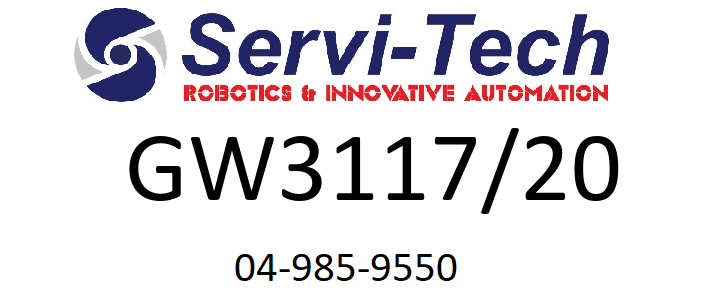
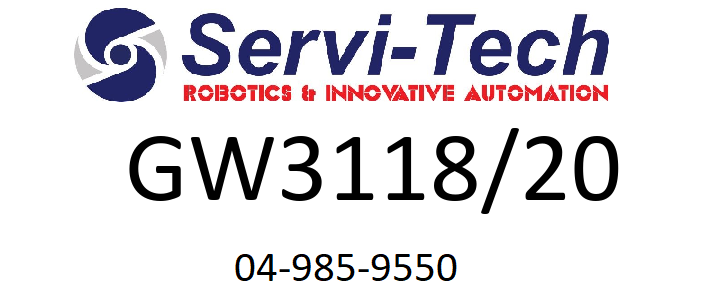
Now printing string

Changed region(s): [[0.5806, 0.45, 0.6722, 0.69]]

diff --git a/print_label_via_brother.py b/print_label_via_brother.py
@@ -20,9 +20,9 @@ app = Flask(__name__)
 #  http://127.0.0.1:5000/print?number=2&quantity=2 -this is how it works
 @app.route("/print",methods=['get'])
 def do_print():
-    number = request.args.get('number', None)  # use default value replace 'None'
+    print_str = request.args.get('string', None)  # use default value replace 'None'
     quantity = request.args.get('quantity', None)
-    create_label(number)
+    create_label(print_str)
 
     if print_label('print.png',quantity)==0:
         return jsonify( {'status': 'success'} ),200
@@ -33,12 +33,12 @@ def do_print():
 
 
 #add serial number to template to create new label
-def create_label(serial_num):
+def create_label(print):
     in_file = 'template.png'
     out_file = 'print.png'
     year_last_2_digits = time.strftime("%y", time.localtime())
-    num = str(serial_num)
-    text = 'GW' + num + '/' + year_last_2_digits
+    print_string = print
+    text =   print_string+ '/' + year_last_2_digits
     img = Image.open(in_file)
     draw = ImageDraw.Draw(img)
     font = ImageFont.truetype("C:\Windows\Fonts\Calibri.ttf", 100)
